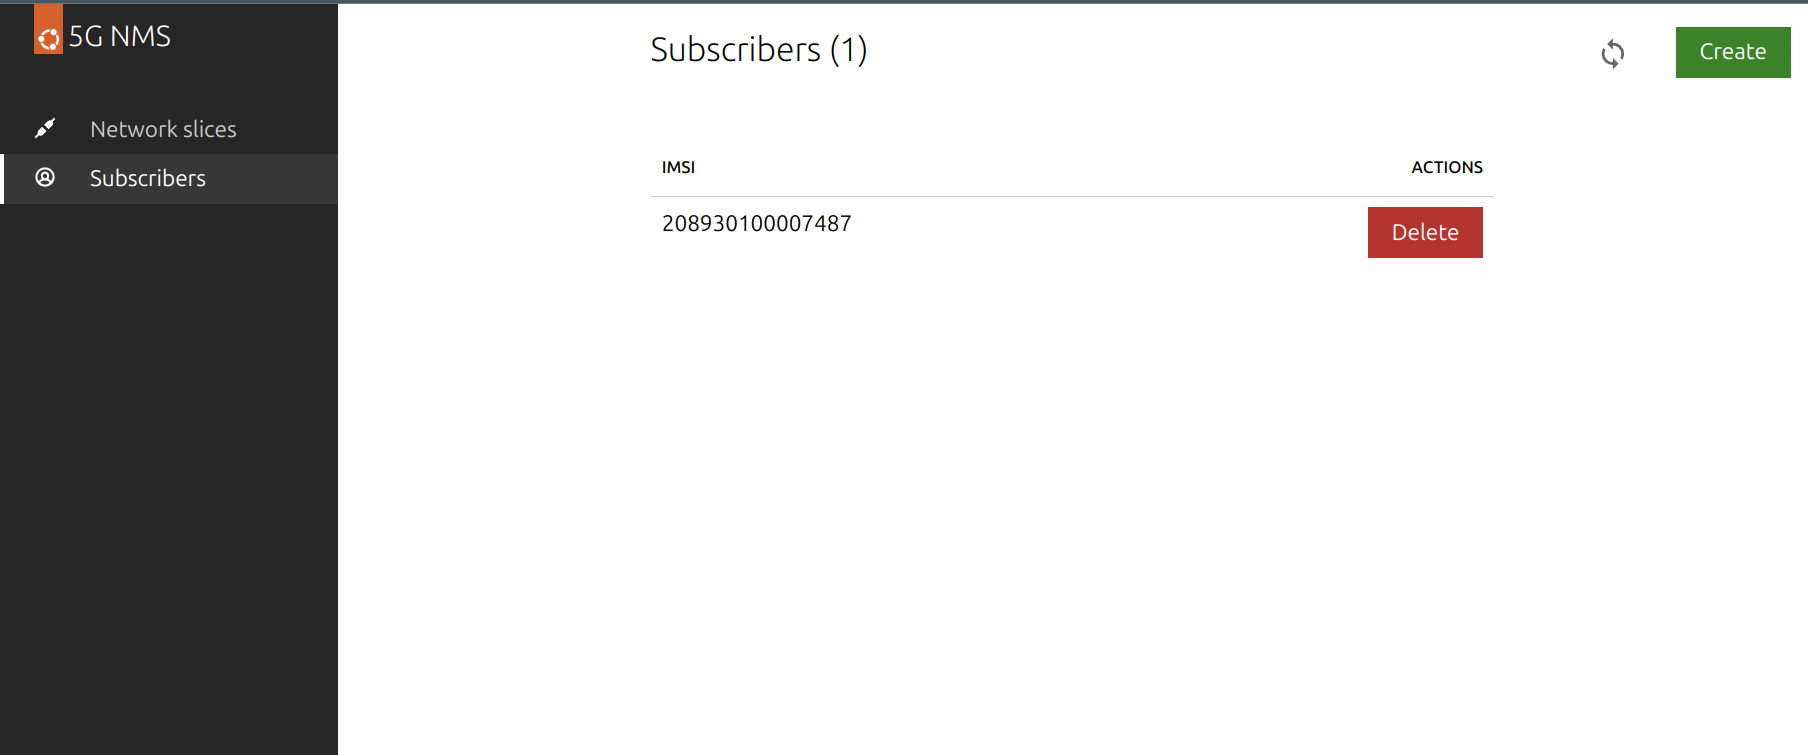
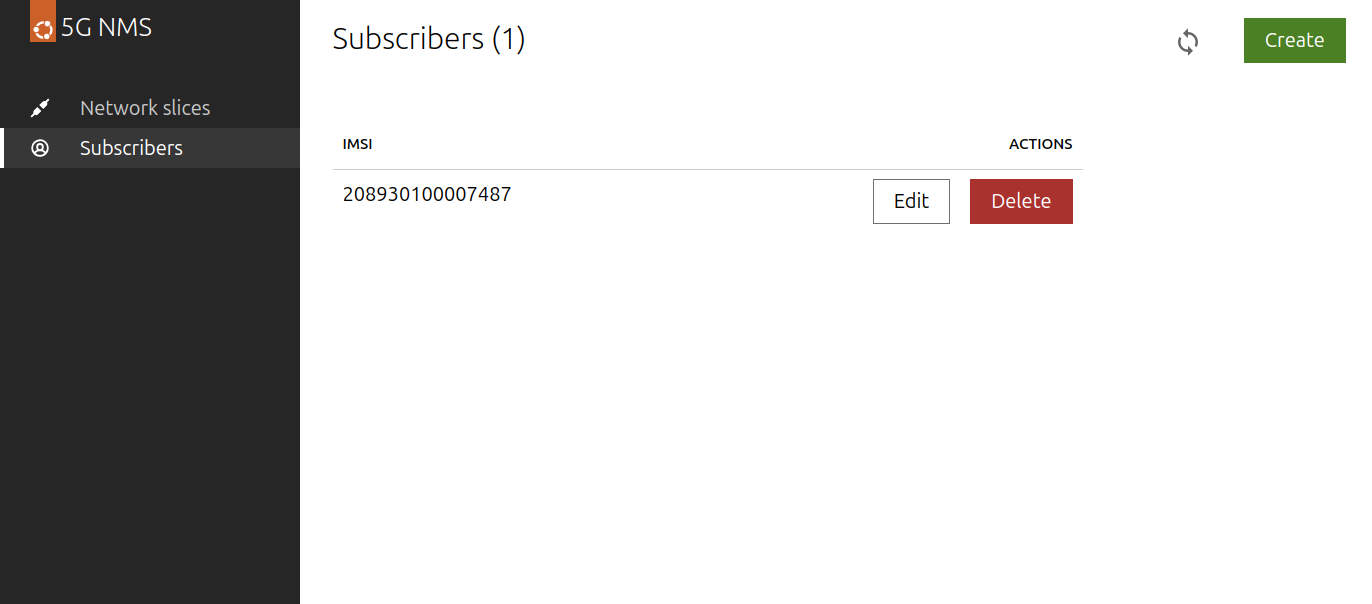
chore: use 1.5 and update subscribers image (#18)

diff --git a/docs/tutorials/getting_started.md b/docs/tutorials/getting_started.md
@@ -203,23 +203,23 @@ Model    Controller          Cloud/Region        Version  SLA          Timestamp
 sdcore   microk8s-localhost  microk8s/localhost  3.4.0    unsupported  13:40:12+01:00
 
 App                       Version  Status   Scale  Charm                         Channel             Rev  Address          Exposed  Message
-amf                                active       1  sdcore-amf-k8s                1.4/edge            57   10.152.183.208   no
-ausf                               active       1  sdcore-ausf-k8s               1.4/edge            40   10.152.183.237   no
-gnbsim                             active       1  sdcore-gnbsim-k8s             1.4/edge            43   10.152.183.167   no
+amf                                active       1  sdcore-amf-k8s                1.5/edge            57   10.152.183.208   no
+ausf                               active       1  sdcore-ausf-k8s               1.5/edge            40   10.152.183.237   no
+gnbsim                             active       1  sdcore-gnbsim-k8s             1.5/edge            43   10.152.183.167   no
 grafana-agent             0.32.1   waiting      1  grafana-agent-k8s             latest/stable       44   10.152.183.245   no       installing agent
 mongodb                            active       1  mongodb-k8s                   6/beta              36   10.152.183.156   no       Primary
-nms                                active       1  sdcore-nms-k8s                0.2/edge            26   10.152.183.121   no
-nrf                                active       1  sdcore-nrf-k8s                1.4/edge            62   10.152.183.123   no
-nssf                               active       1  sdcore-nssf-k8s               1.4/edge            37   10.152.183.165   no
-pcf                                active       1  sdcore-pcf-k8s                1.4/edge            32   10.152.183.205   no
-router                             active       1  sdcore-router-k8s             1.4/edge            33   10.152.183.49    no
-self-signed-certificates           active       1  self-signed-certificates      1.4/edge            33   10.152.183.153   no
-smf                                active       1  sdcore-smf-k8s                1.4/edge            37   10.152.183.147   no
+nms                                active       1  sdcore-nms-k8s                1.5/edge            26   10.152.183.121   no
+nrf                                active       1  sdcore-nrf-k8s                1.5/edge            62   10.152.183.123   no
+nssf                               active       1  sdcore-nssf-k8s               1.5/edge            37   10.152.183.165   no
+pcf                                active       1  sdcore-pcf-k8s                1.5/edge            32   10.152.183.205   no
+router                             active       1  sdcore-router-k8s             1.5/edge            33   10.152.183.49    no
+self-signed-certificates           active       1  self-signed-certificates      1.5/edge            33   10.152.183.153   no
+smf                                active       1  sdcore-smf-k8s                1.5/edge            37   10.152.183.147   no
 traefik                   2.10.4   active       1  traefik-k8s                   latest/stable      148   10.0.0.4         no
-udm                                active       1  sdcore-udm-k8s                1.4/edge            35   10.152.183.168   no
-udr                                active       1  sdcore-udr-k8s                1.4/edge            31   10.152.183.96    no
-upf                                active       1  sdcore-upf-k8s                1.4/edge            64   10.152.183.126   no
-webui                              active       1  sdcore-webui-k8s              1.4/edge            23   10.152.183.128   no
+udm                                active       1  sdcore-udm-k8s                1.5/edge            35   10.152.183.168   no
+udr                                active       1  sdcore-udr-k8s                1.5/edge            31   10.152.183.96    no
+upf                                active       1  sdcore-upf-k8s                1.5/edge            64   10.152.183.126   no
+webui                              active       1  sdcore-webui-k8s              1.5/edge            23   10.152.183.128   no
 
 Unit                         Workload  Agent  Address      Ports  Message
 amf/0*                       active    idle   10.1.182.23

diff --git a/docs/how-to/deploy_sdcore_gnbsim.md b/docs/how-to/deploy_sdcore_gnbsim.md
@@ -20,7 +20,7 @@ juju add-model gnbsim gnbsim-cloud
 Deploy the `sdcore-gnbsim-k8s` operator charm.
 
 ```console
-juju deploy sdcore-gnbsim-k8s gnbsim --trust --channel=1.4/edge \
+juju deploy sdcore-gnbsim-k8s gnbsim --trust --channel=1.5/edge \
   --config gnb-interface=ran \
   --config gnb-ip-address=10.204.0.10/24 \
   --config icmp-packet-destination=8.8.8.8 \

diff --git a/docs/how-to/integrate_sdcore_with_external_gnb.md b/docs/how-to/integrate_sdcore_with_external_gnb.md
@@ -31,7 +31,7 @@ module "gnb01" {
   app_name   = "gnb01"
   source     = "git::https://github.com/canonical/sdcore-gnb-integrator//terraform"
   model_name = "gnb-integration"
-  channel    = "1.4/edge"
+  channel    = "1.5/edge"
   config     = {
     tac: B01F
   }
